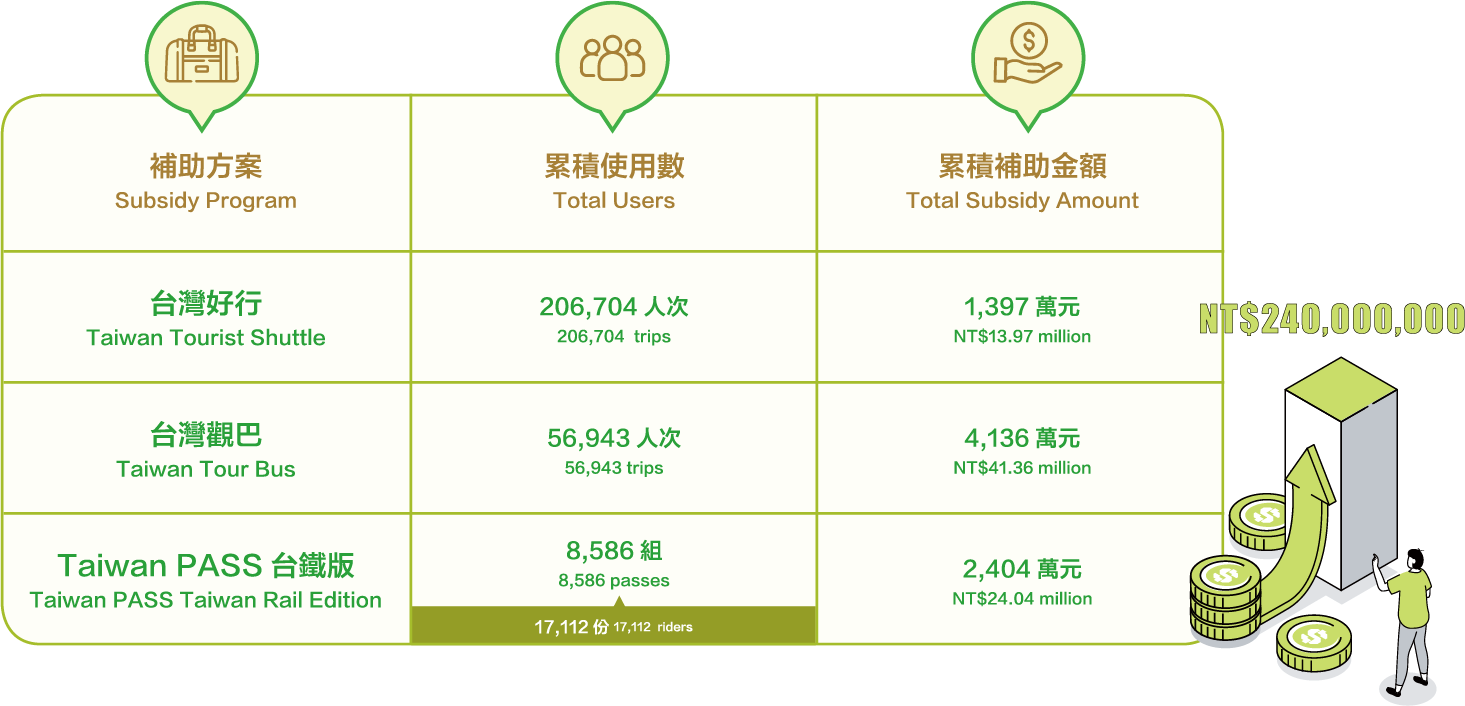
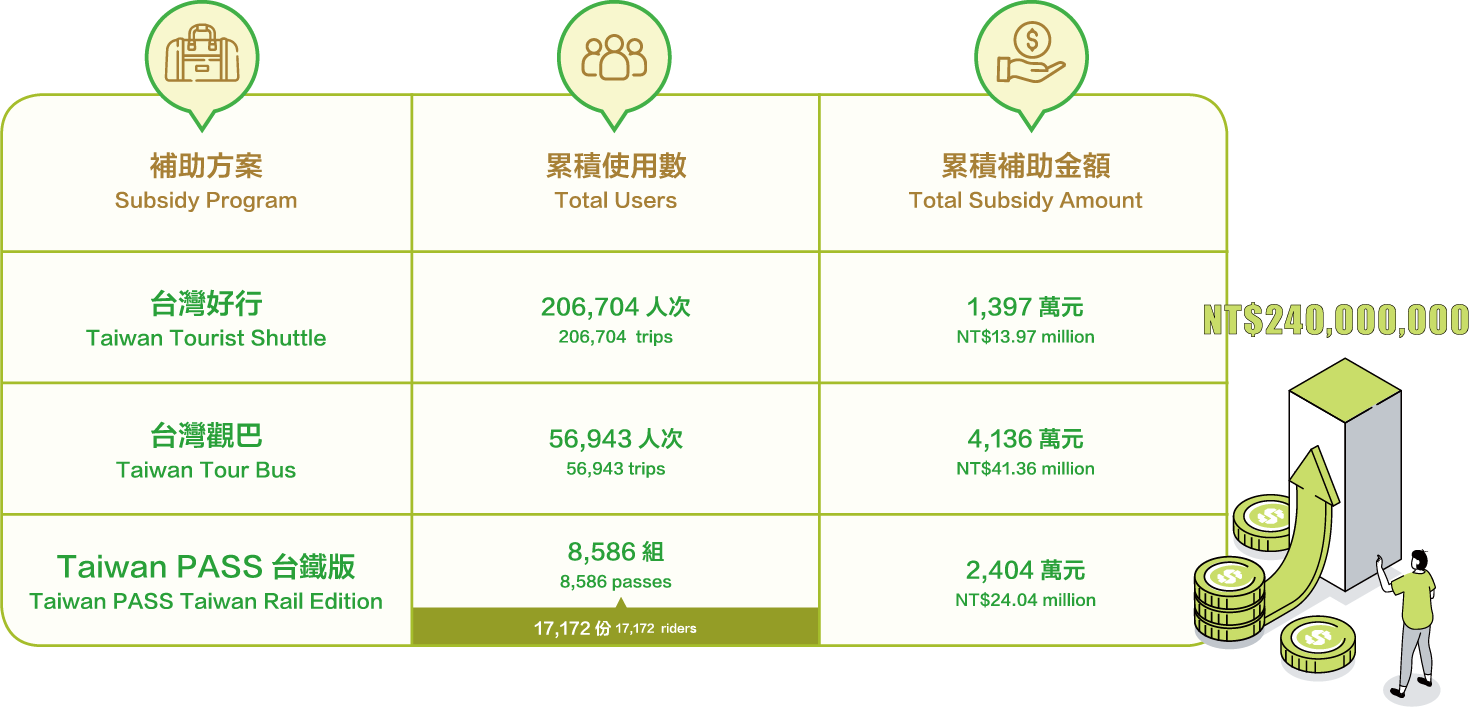
1021_v1700
數據表格更新

diff --git a/Annual_2024_htm/en/2024_Tourism_Snapshot.html b/Annual_2024_htm/en/2024_Tourism_Snapshot.html
@@ -24,7 +24,7 @@
     <!-- LIGHTBOX-->
     <link rel="stylesheet" href="../lightbox/css/lightbox.min.css">
     <!-- common CSS-->
-    <link rel="stylesheet" href="../css/base.css?v=10202217">
+    <link rel="stylesheet" href="../css/base.css?v=10211726">
     <!-- GA-TAG--><script async src="https://www.googletagmanager.com/gtag/js?id=G-7PXFYXG9LQ"></script>
     <script>
     	window.dataLayer = window.dataLayer || [];
@@ -38,7 +38,7 @@
     <meta property="og:url" content="">
     <meta property="og:keyword" content="Annual Report on Tourism,2024,Taiwan, Republic of China,ROC">
     <title>Snapshot | 《中華民國113年台灣觀光業務年報》- 交通部觀光署</title>
-    <link rel="stylesheet" href="../css/Snapshot.css?v=10202217">
+    <link rel="stylesheet" href="../css/Snapshot.css?v=10211726">
   </head>
   <body>
     <div class="g_header"><a class="accesskey" accesskey="u" href="#" title="Top block(U)">:::</a>
@@ -326,7 +326,7 @@
             <p class="list_parag" data-aos="fade-up">Independent Travel Accommodation Subsidies: In 2024, the Post-Earthquake Incentives for Individual Travelers' Accommodation Discounts to Revitalize Hualien campaign received over 740,000 room applications in Hualien County and over 240,000 in Taitung County.</p>
             <p class="list_parag" data-aos="fade-up">Group Travel Subsidies: By the end of the program in December 2024, Hualien had received applications from 2,182 groups with about 52,000 members. Taitung received applications from 1,790 groups with about 49,000 members.</p>
             <p class="list_parag" data-aos="fade-up">Amusement Park Admission Discounts: From October 7 to November 30, 2024, 104,534 visits were made through the discounted admission program.</p>
-            <p class="list_parag" data-aos="fade-up">From June 1 to December 31, 2024, the Taiwan Tourist Shuttle in the Yilan–Hualien–Taitung area offered free rides with e-tickets, and the Taiwan Tour Bus offered 80% fare discounts. These services attracted 206,704 and 56,943 riders, respectively. From July 1 to November 30, the Taiwan PASS TRA Edition "2-for-1" limited offer sold 8,586 passes (17,112 tickets).</p>
+            <p class="list_parag" data-aos="fade-up">From June 1 to December 31, 2024, the Taiwan Tourist Shuttle in the Yilan–Hualien–Taitung area offered free rides with e-tickets, and the Taiwan Tour Bus offered 80% fare discounts. These services attracted 206,704 and 56,943 riders, respectively. From July 1 to November 30, the Taiwan PASS TRA Edition "2-for-1" limited offer sold 8,586 passes (17,172 tickets).</p>
             <p class="list_parag" data-aos="fade-up">Between July 1 and December 31, 2024, additional incentives were offered for international charter flights to airports in Hualien and Taitung to attract more international visitors to eastern Taiwan. Over 20 charter flights from Thailand, Brunei, Vietnam, and Hong Kong were arranged during this period, bringing in more than 1,500 international visitors. From August 1 to December 31, the incentive program for foreign tour groups staying in Hualien and Taitung was also expanded, with a total of 312 groups applying for the benefits.</p>
           </article>
         </div>

diff --git a/Annual_2024_htm/2024_Tourism_Snapshot.html b/Annual_2024_htm/2024_Tourism_Snapshot.html
@@ -24,7 +24,7 @@
     <!-- LIGHTBOX-->
     <link rel="stylesheet" href="lightbox/css/lightbox.min.css">
     <!-- common CSS-->
-    <link rel="stylesheet" href="css/base.css?v=10202214">
+    <link rel="stylesheet" href="css/base.css?v=10211731">
     <!-- GA-TAG--><script async src="https://www.googletagmanager.com/gtag/js?id=G-7PXFYXG9LQ"></script>
     <script>
     	window.dataLayer = window.dataLayer || [];
@@ -38,7 +38,7 @@
     <meta property="og:url" content="">
     <meta property="og:keyword" content="Annual Report on Tourism,2024,Taiwan, Republic of China,ROC">
     <title>觀光縮影 | 《中華民國113年台灣觀光業務年報》- 交通部觀光署</title>
-    <link rel="stylesheet" href="css/Snapshot.css?v=10202214">
+    <link rel="stylesheet" href="css/Snapshot.css?v=10211731">
   </head>
   <body>
     <div class="g_header"><a class="accesskey" accesskey="u" href="#" title="上方主選單連結區(U)">:::</a>
@@ -326,7 +326,7 @@
             <p class="list_parag" data-aos="fade-up">花東自由行住宿補助：113年「振興花蓮震後獎勵旅遊個別旅客住宿優惠活動」花蓮縣超過74萬房提出申請，臺東縣超過24萬房提出申請。</p>
             <p class="list_parag" data-aos="fade-up">花東團體旅遊補助：截至113年12月底活動結束，花蓮團累計申請2,182團，參團旅客約5.2萬人次、臺東團累計申請1,790團，參團旅客約4.9萬人次。</p>
             <p class="list_parag" data-aos="fade-up">推動觀光遊樂業入園優惠，113年10月7日至11月30日累計使用優惠入園計10萬4,534人次。</p>
-            <p class="list_parag" data-aos="fade-up">113年6月1日至12月31日止，提供台灣好行宜花東使用電子票證免費搭乘及台灣觀巴宜花東2折優惠，台灣好行累計20萬6,704人次使用；台灣觀巴累計5萬6,943人次使用；另自7月1日至11月30日止推出Taiwan PASS台鐵版2人同行1人免費限量優惠，累計販售8,586組(每組2張，共17,112張)。</p>
+            <p class="list_parag" data-aos="fade-up">113年6月1日至12月31日止，提供台灣好行宜花東使用電子票證免費搭乘及台灣觀巴宜花東2折優惠，台灣好行累計20萬6,704人次使用；台灣觀巴累計5萬6,943人次使用；另自7月1日至11月30日止推出Taiwan PASS台鐵版2人同行1人免費限量優惠，累計販售8,586組(每組2張，共17,172張)。</p>
             <p class="list_parag" data-aos="fade-up">自113年7月1日起至12月31日止，加碼獎助飛航至花東地區機場之境外包機，爭取更多國際旅客赴花東旅遊，113年共爭取超過20架國際包機（泰國、汶萊、越南、香港），招徠逾1,500名國際旅客；並自8月1日起至12月31日止分波段擴大外國團客住宿花東加碼，計312團申請獎助。</p>
           </article>
         </div>

diff --git a/Annual_2024_htm/04_National_Scenic_Area_Management.html b/Annual_2024_htm/04_National_Scenic_Area_Management.html
@@ -24,7 +24,7 @@
     <!-- LIGHTBOX-->
     <link rel="stylesheet" href="lightbox/css/lightbox.min.css">
     <!-- common CSS-->
-    <link rel="stylesheet" href="css/base.css?v=1020825">
+    <link rel="stylesheet" href="css/base.css?v=10211729">
     <!-- GA-TAG--><script async src="https://www.googletagmanager.com/gtag/js?id=G-7PXFYXG9LQ"></script>
     <script>
     	window.dataLayer = window.dataLayer || [];
@@ -38,7 +38,7 @@
     <meta property="og:url" content="">
     <meta property="og:keyword" content="Annual Report on Tourism,2024,Taiwan, Republic of China,ROC">
     <title>國家風景區建設與管理 | 《中華民國113年台灣觀光業務年報》- 交通部觀光署</title>
-    <link rel="stylesheet" href="css/Scenic_Area_Management.css?v=1020825">
+    <link rel="stylesheet" href="css/Scenic_Area_Management.css?v=10211729">
   </head>
   <body>
     <div class="g_header"><a class="accesskey" accesskey="u" href="#" title="上方主選單連結區(U)">:::</a>
@@ -854,7 +854,7 @@
                           <div>攜手日月潭觀光圈至日本群馬縣與老神溫泉觀光協會進行交流活動、參加2024年馬來西亞及柔佛地區觀光推廣活動及2024香港運動休閒博覽會活動。</div>
                         </li>
                         <li>
-                          <div>舉辦日月潭櫻花季、星光螢火季、日月潭Come!Bikeday 花火音樂嘉年華暨自行車嘉年華、日月潭四季自行車認證，以及冬季的跨年晚會等活動，總參加人數超過41萬4,220人次，觀光產值達新臺幣9億5933萬3,520元。</div>
+                          <div>舉辦日月潭櫻花季、星光螢火季、日月潭Come!Bikeday 花火音樂嘉年華暨自行車嘉年華、日月潭四季自行車認證，以及冬季的跨年晚會等活動，總參加人數超過41萬4,220人次，觀光產值達新臺幣9億5,933萬3,520元。</div>
                         </li>
                         <li>
                           <div>觀光旅遊網站（中、英、日、韓版）多管齊下露出日月潭觀光旅遊資訊及施政成果，113年底瀏覽人次達220萬9,969人、粉絲團13萬5,383人，發布425則貼文，觸及人次446萬4,437人次。</div>
